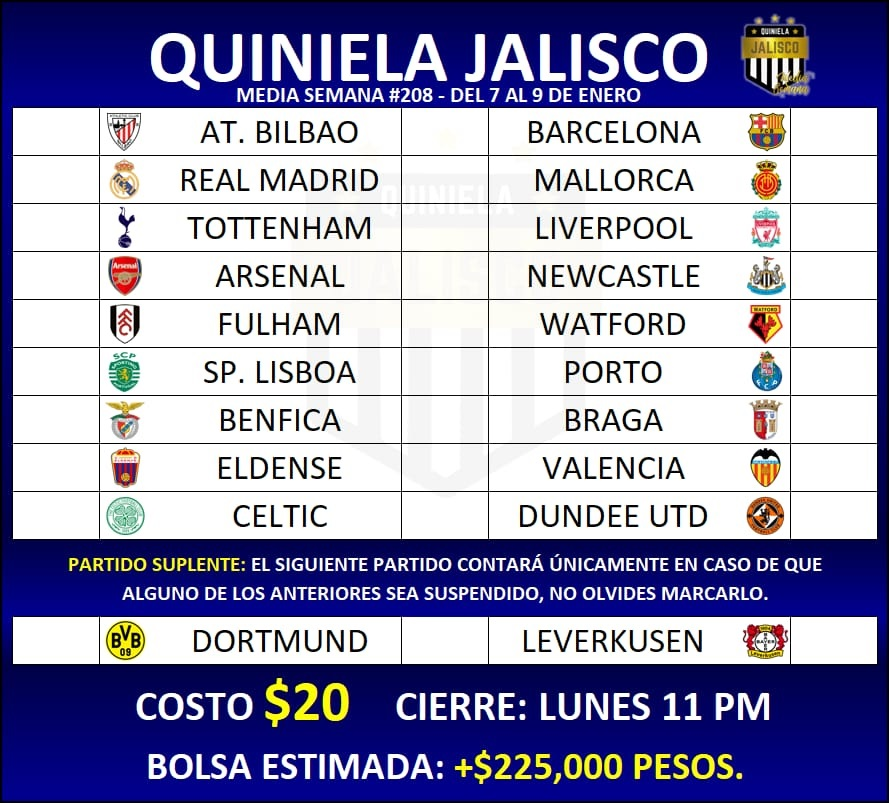
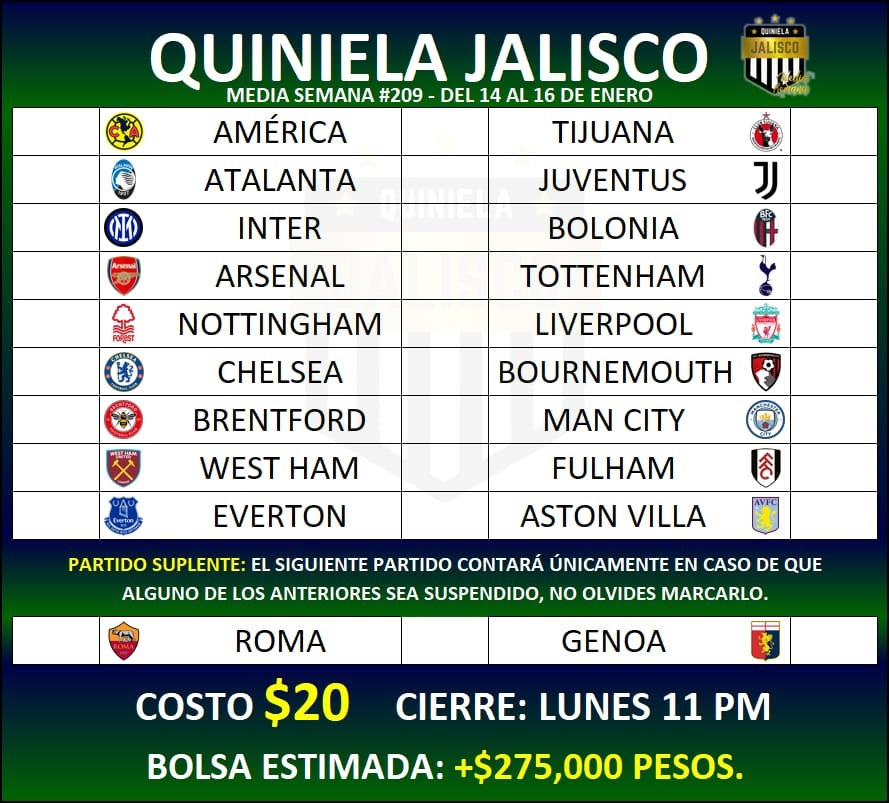
Media Semana #209

diff --git a/MediaSemana/stylesmSusp.css b/MediaSemana/stylesmSusp.css
@@ -94,8 +94,8 @@ body{
     margin-top: 9%;
     border: solid 1px black;
     border-radius: 0 0 14px 14px;
-    background: -webkit-linear-gradient(0.5turn, rgb(0 0 110), rgb(7 1 77) 80%);
-    background: linear-gradient(0.5turn, rgb(0 0 110), rgb(7 1 77) 80%);
+    background: -webkit-linear-gradient(0.5turn, rgb(0 50 35), rgb(7 1 77) 80%);
+    background: linear-gradient(0.5turn, rgb(0 50 35), rgb(7 1 77) 80%);
 }
 
 .text-lg{
@@ -294,7 +294,7 @@ h6{
 }
 
 #cantidad:before{
-    content:' +$225,000 pesos';
+    content:' +$275,000 pesos';
     color: yellow;
     white-space:pre;
 }
